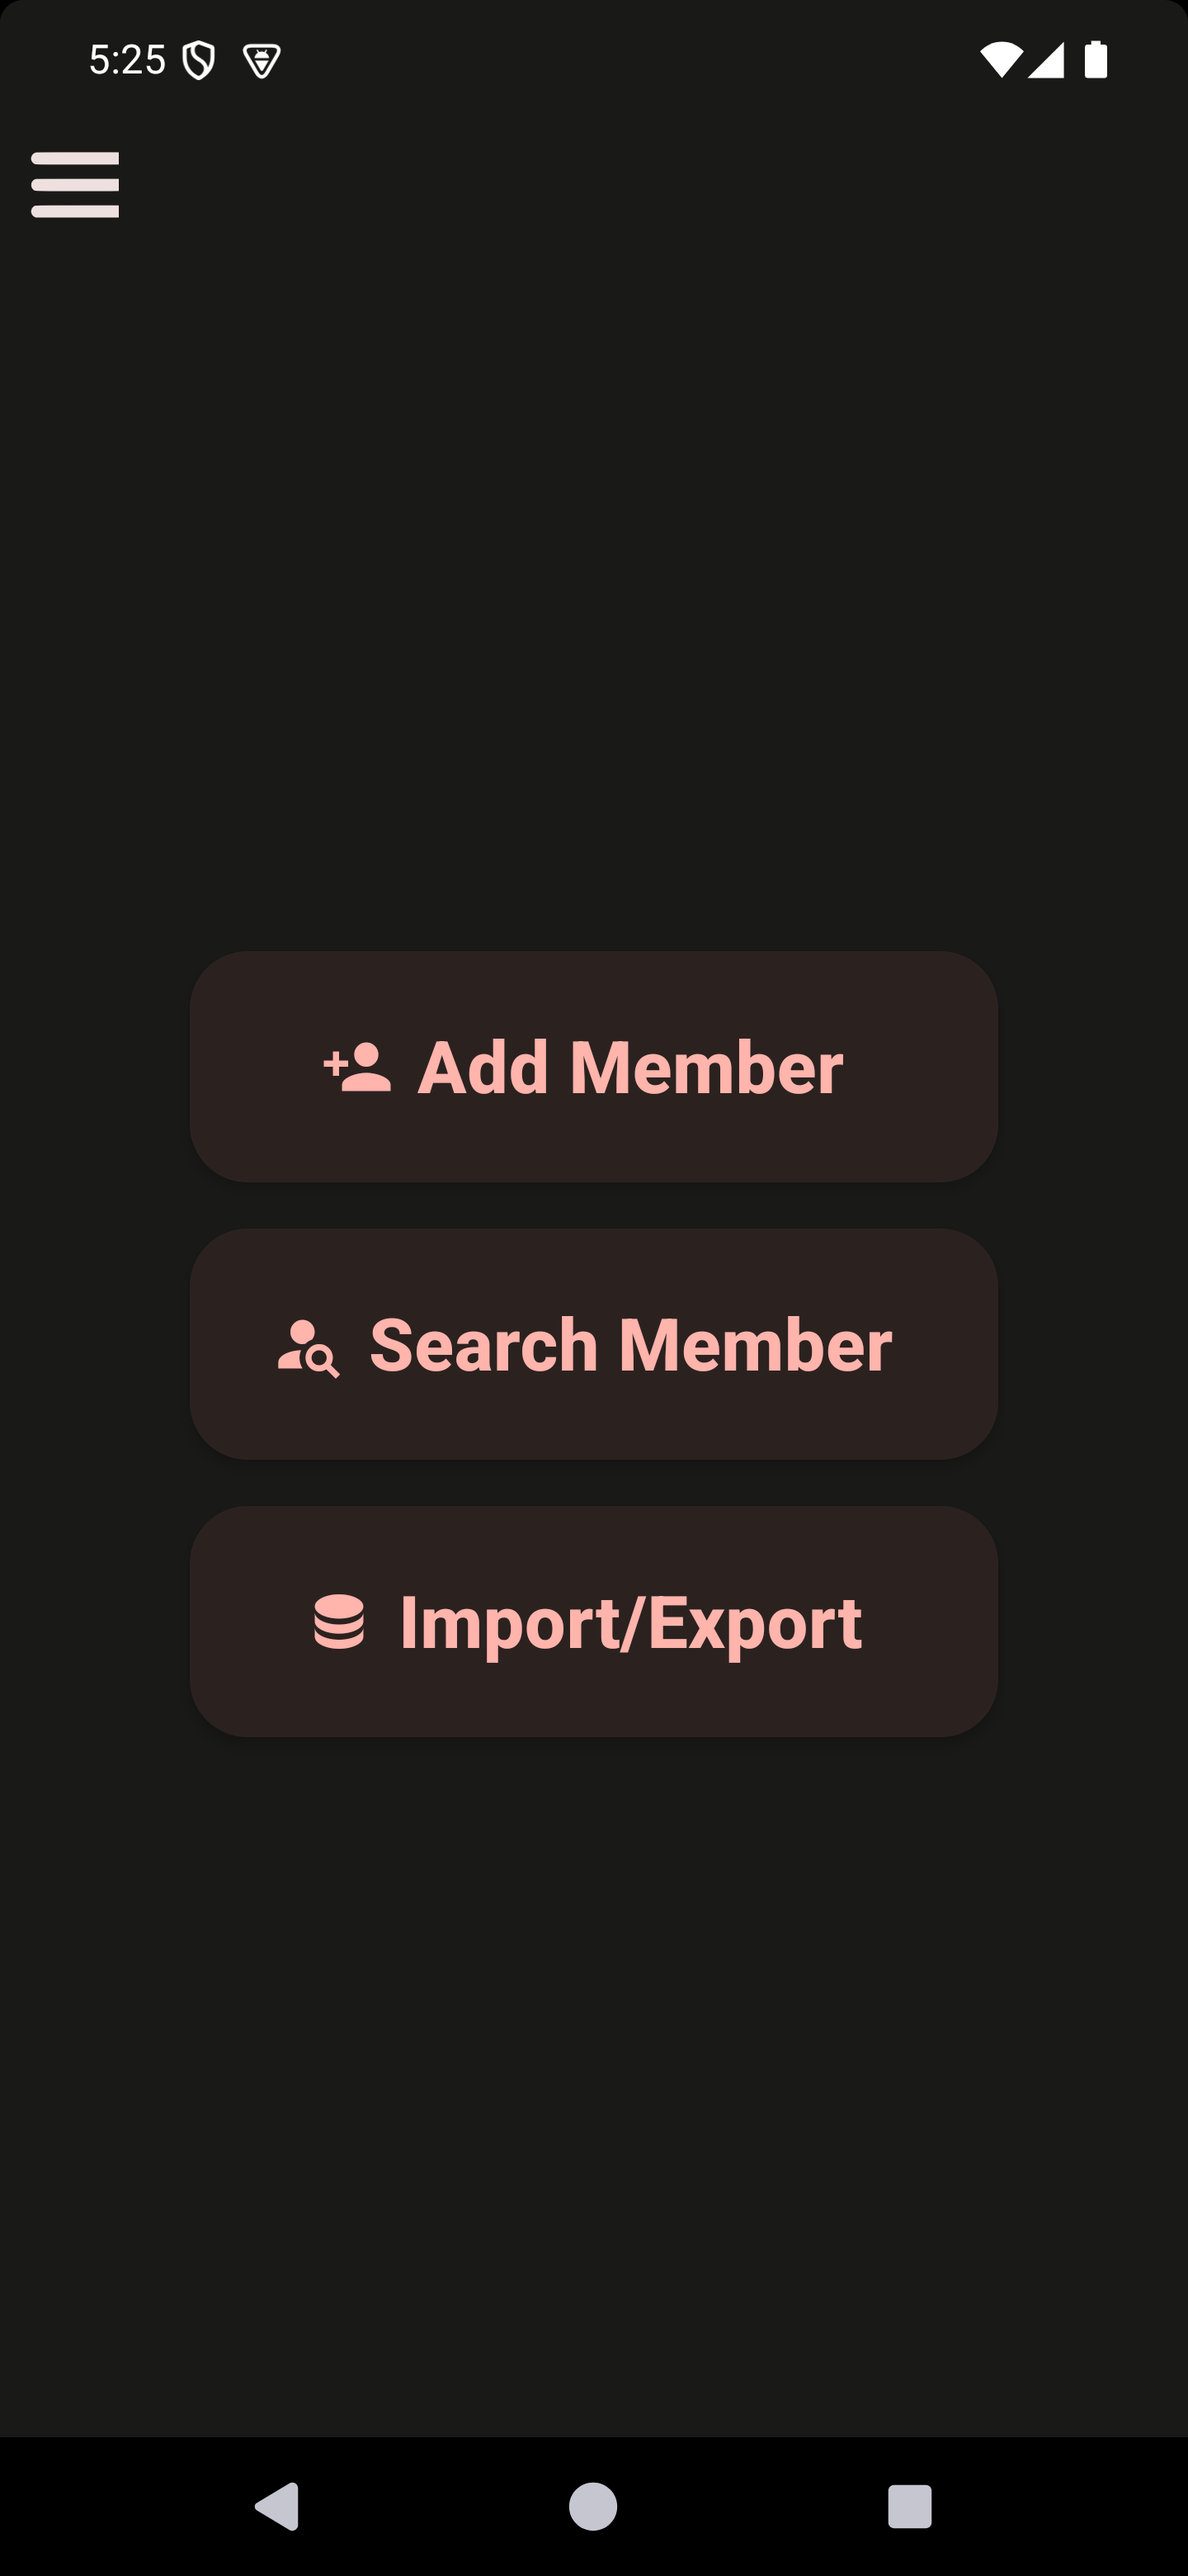
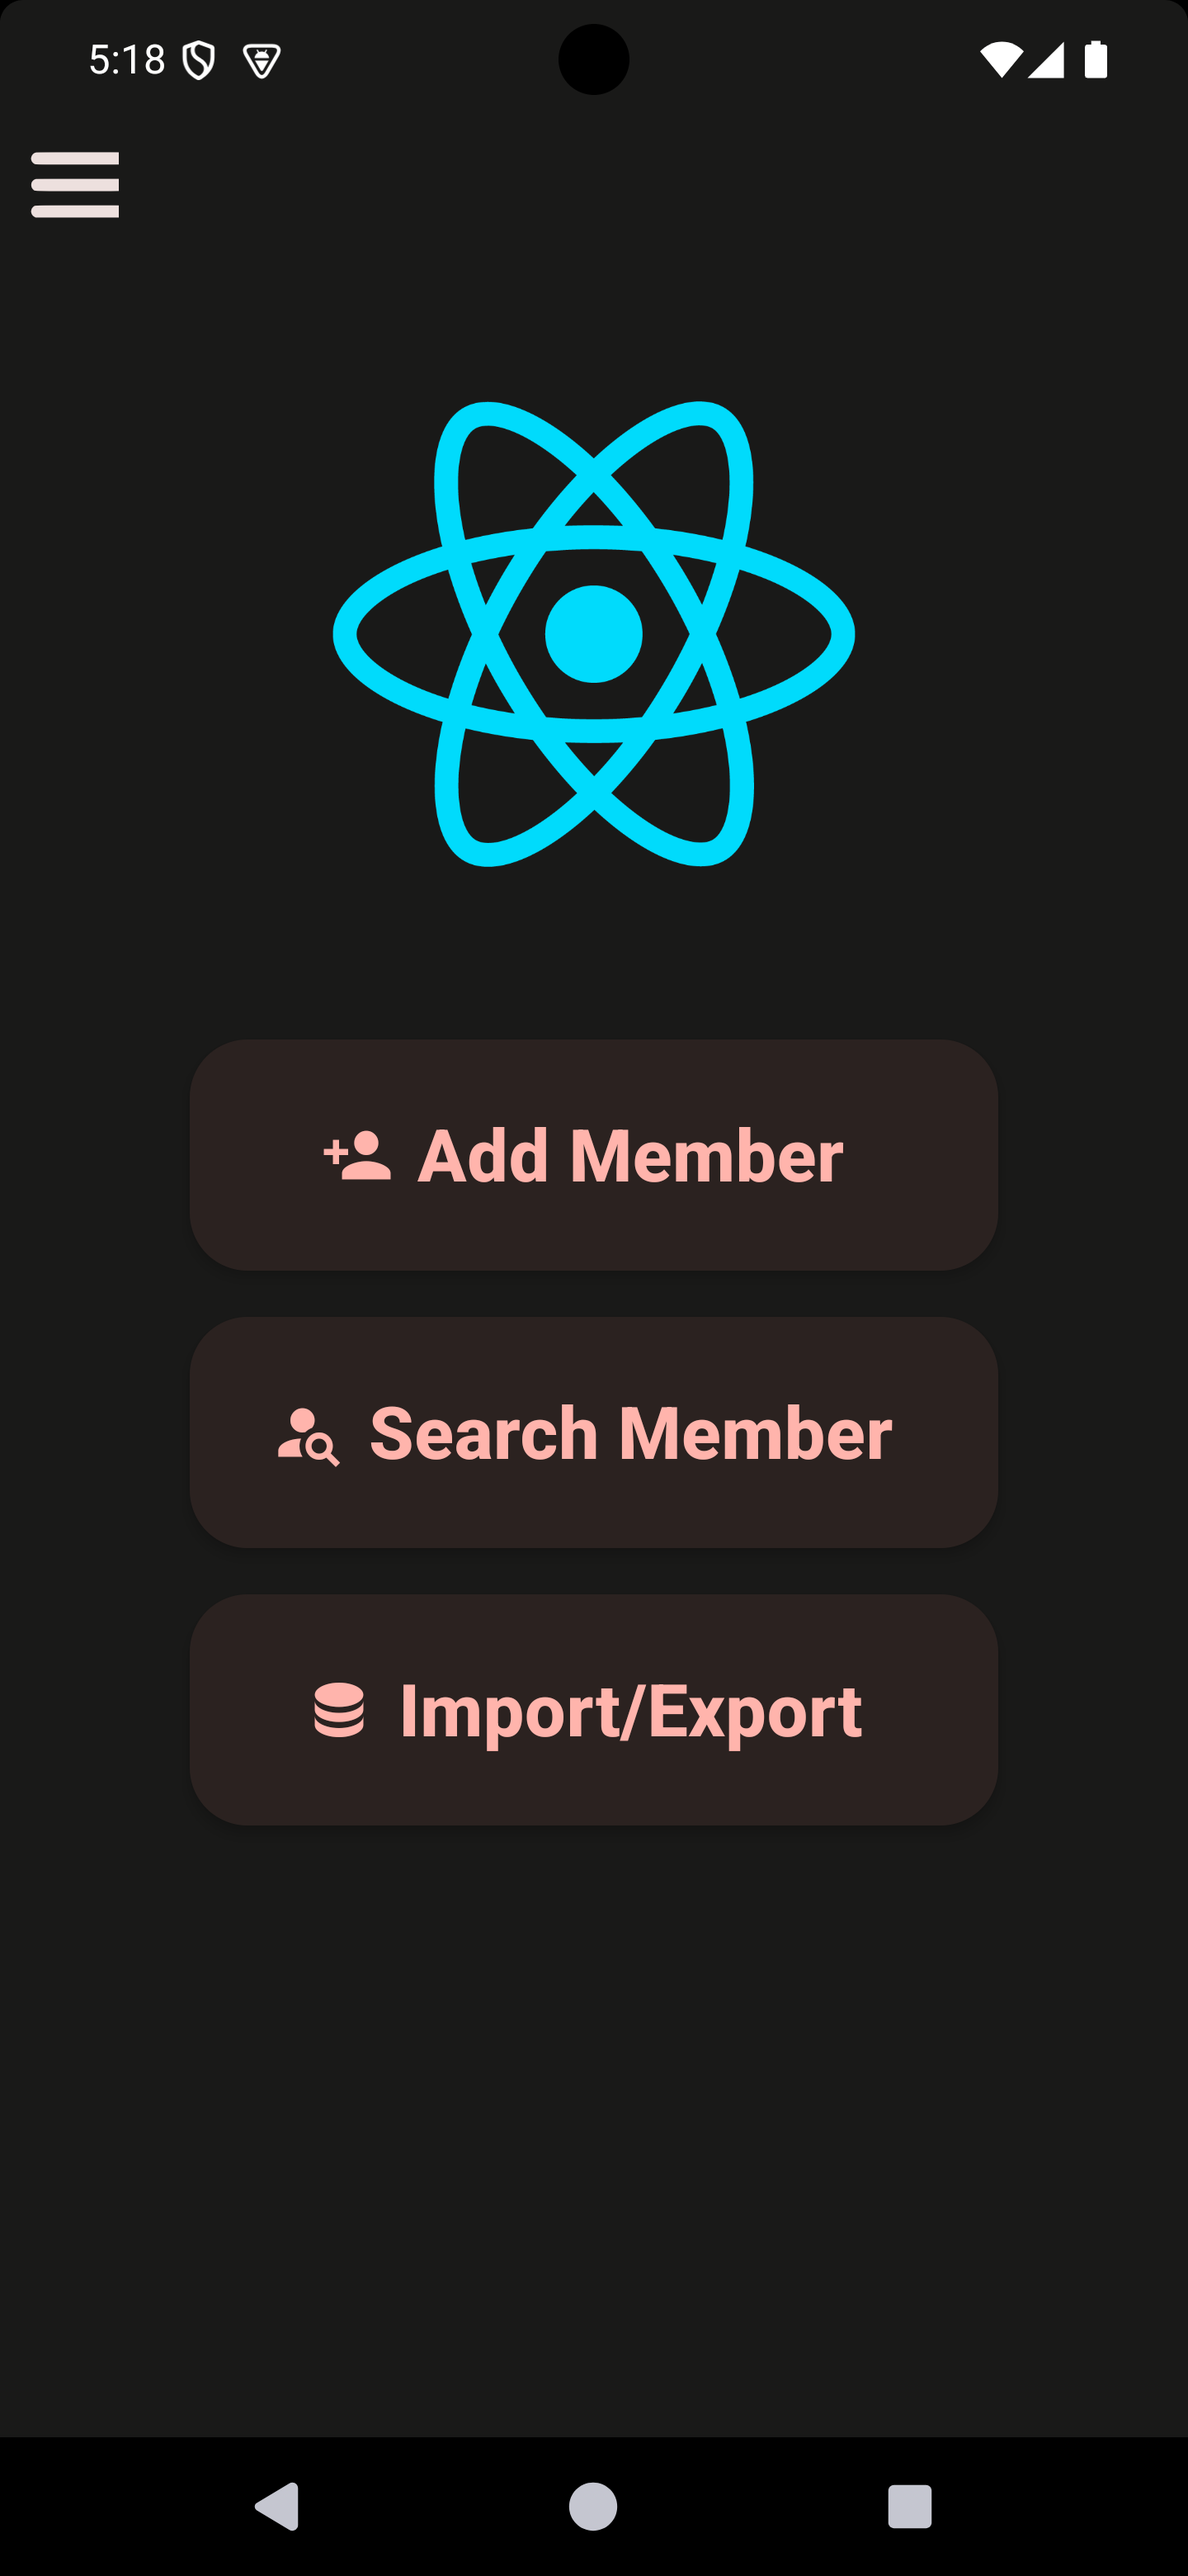
Changed some styles and layouts

diff --git a/app/(drawer)/(home)/home.tsx b/app/(drawer)/(home)/home.tsx
@@ -1,5 +1,5 @@
 import React from 'react';
-import { View, StyleSheet } from 'react-native';
+import { View, StyleSheet, Image } from 'react-native';
 import { Button } from 'react-native-paper';
 import { router } from 'expo-router';
 import { useTranslation } from 'react-i18next';
@@ -9,6 +9,12 @@ export default function Home() {
 
 	return (
 		<View style={styles.container}>
+			<View style={styles.imageContainer}>
+				<Image
+					style={styles.image}
+					source={require('@/assets/images/logoReact.png')}
+				/>
+			</View>
 			<View style={styles.buttonContainer}>
 				<Button
 					style={styles.button}
@@ -51,7 +57,7 @@ export default function Home() {
 const styles = StyleSheet.create({
 	container: {
 		flex: 1,
-		justifyContent: 'center',
+		//justifyContent: 'center',
 	},
 	buttonContainer: {
 		marginHorizontal: 20,
@@ -70,5 +76,16 @@ const styles = StyleSheet.create({
 		fontWeight: 'bold',
 		overflow: 'visible',
 		paddingTop: 10,
+	},
+	imageContainer: {
+		justifyContent: 'center',
+		alignSelf: 'center',
+		width: '50%',
+		height: '35%',
+	},
+	image: {
+		resizeMode: 'contain',
+		width: '100%',
+		height: '100%',
 	},
 });

diff --git a/components/CustomDrawerContent.tsx b/components/CustomDrawerContent.tsx
@@ -193,10 +193,10 @@ export default function CustomDrawerContent(props: any) {
 		RNFetchBlob.fs
 			.ls(RNFetchBlob.fs.dirs.CacheDir)
 			.then((files) => {
-				console.log(files);
+				//console.log(files);
 				for (const file of files) {
 					if (file.endsWith('.apk')) {
-						console.log(file);
+						//console.log(file);
 						deleteFile(`${RNFetchBlob.fs.dirs.CacheDir}/${file}`);
 					}
 				}
@@ -220,7 +220,7 @@ export default function CustomDrawerContent(props: any) {
 					if (compareVersions(ref.name)) {
 						update = true;
 						setUpdateVersion(ref.name);
-						console.log(ref.name);
+						//console.log(ref.name);
 					}
 				}
 			})
@@ -295,7 +295,7 @@ export default function CustomDrawerContent(props: any) {
 			const downloadProgress =
 				(taskSnapshot.bytesTransferred * 100) / taskSnapshot.totalBytes / 100;
 			setUpdateDownloadProgress(Number(downloadProgress.toFixed(2)));
-			console.log(Number(downloadProgress.toFixed(2)));
+			//console.log(Number(downloadProgress.toFixed(2)));
 		});
 
 		await task

diff --git a/app/(drawer)/(home)/addMember.tsx b/app/(drawer)/(home)/addMember.tsx
@@ -133,7 +133,7 @@ export default function AddMember() {
 				aspect: [3, 4],
 			});
 
-			console.log(result);
+			//console.log(result);
 
 			if (!result.canceled) {
 				setProfilePicture(result.assets[0].uri);
@@ -166,7 +166,7 @@ export default function AddMember() {
 				aspect: [3, 4],
 			});
 
-			console.log(result);
+			//console.log(result);
 
 			if (!result.canceled) {
 				setProfilePicture(result.assets[0].uri);
@@ -209,7 +209,7 @@ export default function AddMember() {
 
 			// Get download url
 			const url = await reference.getDownloadURL();
-			console.log(url);
+			//console.log(url);
 			setProfilePicture(url);
 			return url;
 		}
